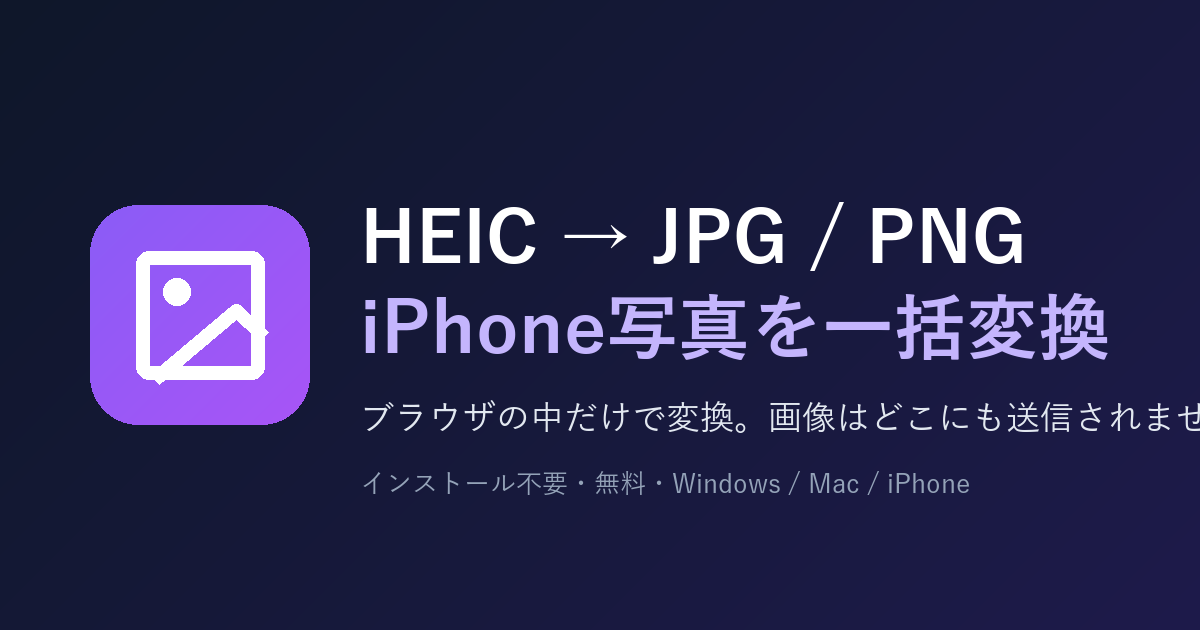
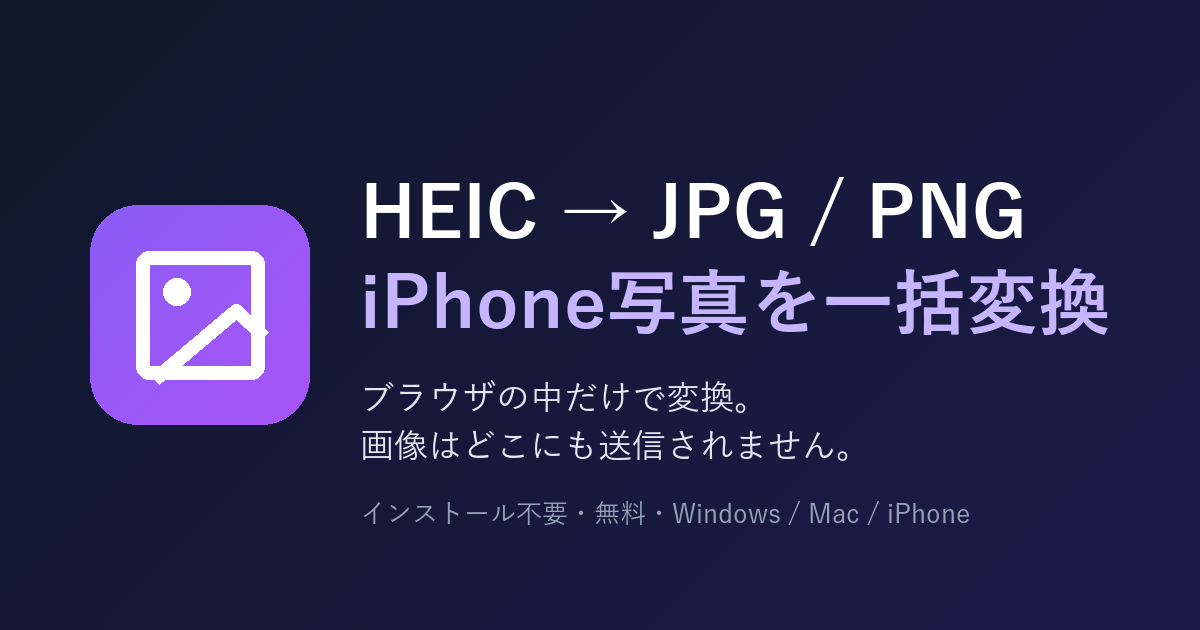
OGP画像の説明文を2行に分けて枠内に収める

Changed region(s): [[0.2775, 0.2714, 0.925, 0.573], [0.2775, 0.6032, 1.0, 0.8444], [0.3083, 0.8143, 0.3392, 0.8444]]

diff --git a/scripts/make-icons.py b/scripts/make-icons.py
@@ -51,9 +51,10 @@ d = ImageDraw.Draw(og)
 font_b = ImageFont.truetype('C:/Windows/Fonts/YuGothB.ttc', 72)
 font_m = ImageFont.truetype('C:/Windows/Fonts/YuGothM.ttc', 34)
 font_s = ImageFont.truetype('C:/Windows/Fonts/YuGothM.ttc', 26)
-d.text((360, 200), 'HEIC → JPG / PNG', font=font_b, fill='white')
-d.text((360, 290), 'iPhone写真を一括変換', font=font_b, fill=(196, 181, 253))
-d.text((360, 400), 'ブラウザの中だけで変換。画像はどこにも送信されません。', font=font_m, fill=(226, 232, 240))
-d.text((360, 470), 'インストール不要・無料・Windows / Mac / iPhone', font=font_s, fill=(148, 163, 184))
+d.text((360, 175), 'HEIC → JPG / PNG', font=font_b, fill='white')
+d.text((360, 265), 'iPhone写真を一括変換', font=font_b, fill=(196, 181, 253))
+d.text((360, 380), 'ブラウザの中だけで変換。', font=font_m, fill=(226, 232, 240))
+d.text((360, 428), '画像はどこにも送信されません。', font=font_m, fill=(226, 232, 240))
+d.text((360, 500), 'インストール不要・無料・Windows / Mac / iPhone', font=font_s, fill=(148, 163, 184))
 og.convert('RGB').save(os.path.join(OUT, 'og-image.png'), optimize=True)
 print('ok')
